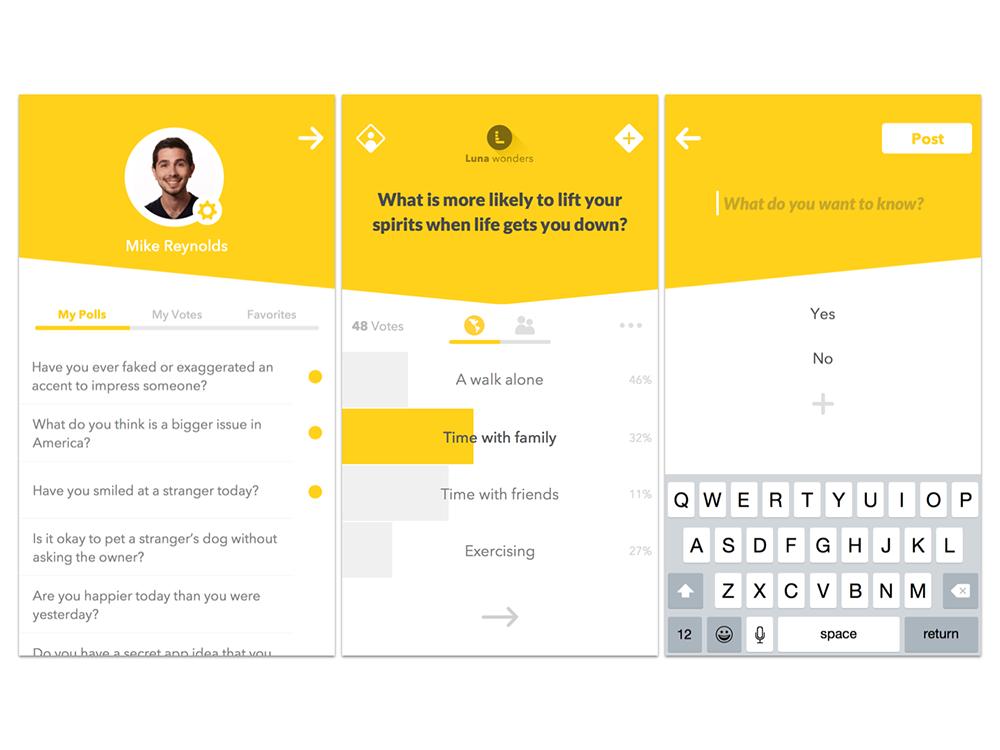
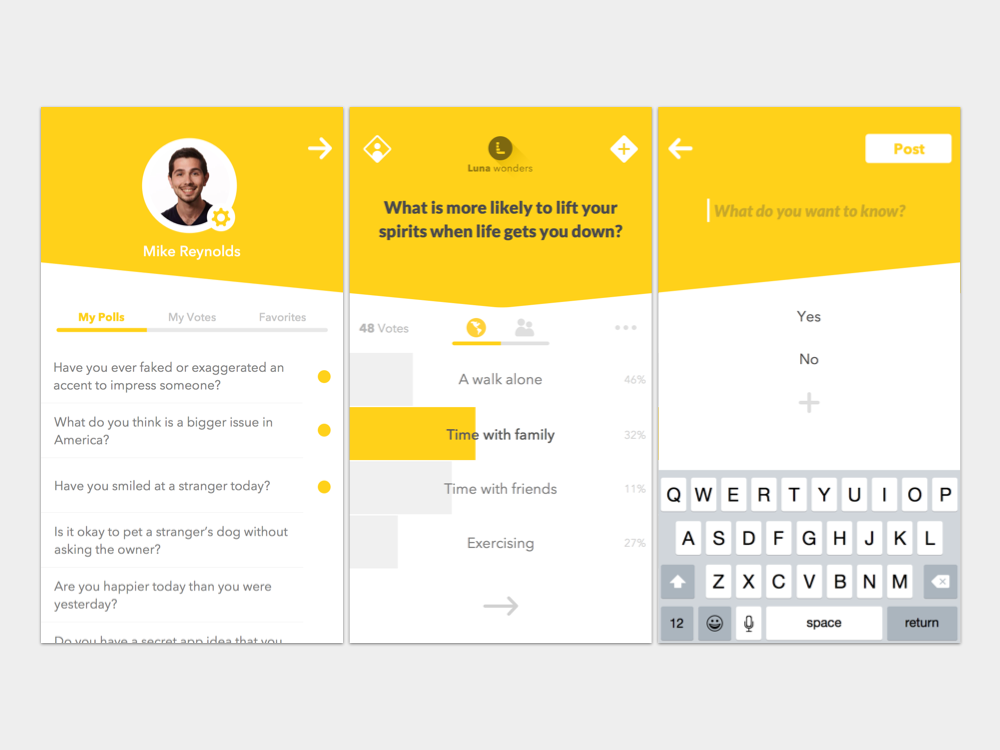
fix images

diff --git a/index.html b/index.html
@@ -19,7 +19,7 @@ layout: page
     <a class="fancybox" rel="group" href="/images/luna-1.jpg" title="Luna is an addictive way to quench your curiosity. It's super fast polling for curious people!  <a href=&quot;https://itunes.apple.com/us/app/marimba-chat/id942226123?mt=8&ign-mpt=uo%3D4&quot;>Check it out in the App Store!</a>"><img src="/images/luna-1.jpg" alt="Luna app" /></a>
   </div>
   <div class="portfolio-image large-4 medium-6 small-12 gallery-index columns">
-    <a class="fancybox" rel="group" href="/images/luna-2.jpg" title="Luna is an addictive way to quench your curiosity. It's super fast polling for curious people!  <a href=&quot;https://itunes.apple.com/us/app/marimba-chat/id942226123?mt=8&ign-mpt=uo%3D4&quot;>Check it out in the App Store!</a>"><img src="/images/luna-2.jpg" alt="Luna app" /></a>
+    <a class="fancybox" rel="group" href="/images/luna-2.png" title="Luna is an addictive way to quench your curiosity. It's super fast polling for curious people!  <a href=&quot;https://itunes.apple.com/us/app/marimba-chat/id942226123?mt=8&ign-mpt=uo%3D4&quot;>Check it out in the App Store!</a>"><img src="/images/luna-2.png" alt="Luna app" /></a>
   </div>
 
 
